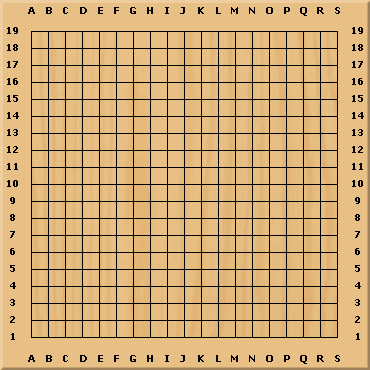
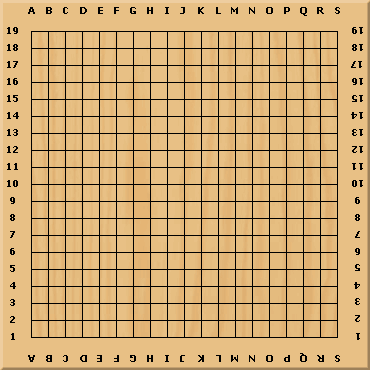
Not so smoth transaction

diff --git a/TP3/XMLscene.js b/TP3/XMLscene.js
@@ -13,6 +13,7 @@ class XMLscene extends CGFscene {
 
         this.interface = myinterface;
         this.lightValues = {};
+        this.Start = false;
 
     }
 
@@ -24,8 +25,6 @@ class XMLscene extends CGFscene {
         super.init(application);
 
         this.sceneInited = false;
-
-        this.View = 3;
 
         this.initCameras();
 
@@ -40,10 +39,12 @@ class XMLscene extends CGFscene {
 
         this.materialDefault = new CGFappearance(this);
 
-
-
         this.waterShader = new CGFshader(this.gl, "shaders/water.vert", "shaders/water.frag");
         this.waterShader.setUniformsValues({uSampler2: 1});
+
+
+        this.game = new Game(this);
+
 
         this.setPickEnabled(true);
         this.setUpdatePeriod(50);
@@ -54,7 +55,8 @@ class XMLscene extends CGFscene {
      * Initializes the scene cameras.
      */
     initCameras() {
-        this.camera = new CGFcamera(0.4, 0.1, 500, vec3.fromValues(15, 15, 15), vec3.fromValues(0, 0, 0));
+        this.camera = new CGFcamera(0.8, 0.1, 500, vec4.fromValues(2.6, 3, 2.5, 1), vec4.fromValues(2.4, 0, 2.5, 1));
+        this.interface.setActiveCamera(this.camera);
     }
     /**
      * Initializes the scene lights with the values read from the XML file.
@@ -117,19 +119,11 @@ class XMLscene extends CGFscene {
         // Adds lights group.
         this.interface.addLightsGroup(this.graph.lights);
 
-
+        this.interface.addGameGroup(this.game);
 
 
         this.materialDefault.apply();
 
-        for(var i = 0; i < this.graph.views.length; i++){
-            if(this.graph.views[i].id == this.graph.defaultCamID){
-                 this.camera = this.graph.views[i].cam;
-                this.interface.setActiveCamera(this.camera);
-            }
-        }
-        //Adds Views Group
-        this.interface.addViewsGroup(this.graph.views);
 
 
         this.sceneInited = true;
@@ -183,7 +177,7 @@ class XMLscene extends CGFscene {
                 }
             }
 
-           
+
             // Displays the scene (MySceneGraph function).
             this.graph.displayScene();
         }
@@ -207,15 +201,13 @@ class XMLscene extends CGFscene {
       }
     }
 
-	}
+    if (this.gui.isKeyPressed("KeyP")) {
+      console.log('P');
+      this.game.changeplayer();
 
-    updateViews(){
-        //Diferent from null so it waits for parsing
-        if (this.sceneInited){
-            this.camera = this.graph.views[this.View-1].cam;
-            this.interface.setActiveCamera(this.camera);
-        }
     }
+
+	 }
 
     updateComponent(currTime){
 
@@ -241,27 +233,33 @@ class XMLscene extends CGFscene {
 
 	update(currTime) {
 		this.checkKey();
-        this.updateViews();
-        this.updateComponent(currTime);
-        this.updateWaterShader(currTime);
+    this.updateComponent(currTime);
+    this.updateWaterShader(currTime);
+    if(!this.game.begin){
+      if(this.Start)
+        this.game.start();
     }
-    
-    logPicking(){
-        
-        if (this.pickMode == false) {
-            if (this.pickResults != null && this.pickResults.length > 0) {
-                for (var i=0; i< this.pickResults.length; i++) {
-                    console.log(this.pickResults[i][1]);
-                    var obj = this.pickResults[i][0];
-                    if (obj)
-                    {
-                        var customId = this.pickResults[i][1];				
-                        console.log("Picked object: " + obj + ", with pick id " + customId);
-                    }
-                }
-                this.pickResults.splice(0,this.pickResults.length);
-            }		
-        }
+    if(this.game.begin)
+      this.game.updateView(currTime);
+
+  }
+
+  logPicking(){
+
+      if (this.pickMode == false) {
+          if (this.pickResults != null && this.pickResults.length > 0) {
+              for (var i=0; i< this.pickResults.length; i++) {
+                  console.log(this.pickResults[i][1]);
+                  var obj = this.pickResults[i][0];
+                  if (obj)
+                  {
+                      var customId = this.pickResults[i][1];
+                      console.log("Picked object: " + obj + ", with pick id " + customId);
+                  }
+              }
+              this.pickResults.splice(0,this.pickResults.length);
+          }
+      }
     }
 
     ispiece(string){

diff --git a/TP3/Game.js b/TP3/Game.js
@@ -1,0 +1,86 @@
+/**
+ * Game
+ * @param gl {WebGLRenderingContext}
+ * @constructor
+ */
+
+class Game {
+
+
+	constructor(scene){
+
+		this.scene = scene;
+
+		this.tablepos = [2.5,0,2.5,1];
+
+		this.player = 1;
+
+		this.perspective1 = [3.2,4,2.5,1];
+		this.perspective2 = [1.8,4,2.5,1];
+
+		this.playercamera = new CGFcamera(0.4, 0.1, 500, this.perspective1, this.tablepos);
+
+		this.currentperspective = this.perspective1;
+		this.objectiveperspective = this.perspective1;
+
+		this.begin = false;
+
+		this.deltaTime = 0;
+
+	};
+
+	start(){
+		this.begin = true;
+		this.setView(this.perspective1);
+	}
+
+	changeplayer(){
+		if(this.player == 1)
+			this.player = 2;
+		else {
+			this.player = 1;
+		}
+		this.changeperspective();
+	}
+
+	changeperspective(){
+			if(this.objectiveperspective == this.perspective1)
+				this.objectiveperspective = this.perspective2;
+			else
+				this.objectiveperspective = this.perspective1;
+	}
+
+	setView(perspective){
+		this.playercamera = new CGFcamera(0.4, 0.1, 500, perspective, this.tablepos);
+		this.scene.camera = this.playercamera;
+		this.scene.interface.setActiveCamera(this.camera);
+	}
+
+	updateView(currTime){
+		let newTime = Math.round(currTime/100);
+
+		if(this.currentperspective == this.objectiveperspective)
+			return null;
+
+		if(this.deltaTime == 0){
+			this.deltaTime = newTime;
+			return null;
+	 	}
+
+		let movTime = newTime - this.deltaTime;
+		console.log(movTime);
+		if(movTime >= 100){
+			this.setView(this.objectiveperspective);
+			this.deltaTime = 0;
+			this.currentperspective = this.objectiveperspective;
+			return null;
+		}
+
+		let currAng = Math.PI*(movTime)/100;
+		let x = this.currentperspective[0] - this.tablepos[0], y = this.currentperspective[1], z = this.currentperspective[2] - this.tablepos[2];
+		let radious = this.tablepos[0] - this.currentperspective[0];
+		let newX = ((x * Math.cos(currAng)) - (z * Math.sin(currAng))) + this.tablepos[0], newZ = ((z * Math.cos(currAng)) - (x * Math.sin(currAng))) + this.tablepos[2];
+		this.setView([newX,y,newZ,1]);
+	};
+
+};

diff --git a/TP3/main.js b/TP3/main.js
@@ -11,7 +11,7 @@ function getUrlVars() {
     return vars;
 }
 //Include additional files here
-serialInclude(['../lib/CGF.js', 'XMLscene.js', 'MySceneGraph.js', 'MyInterface.js', 'MyRectangle.js' , 'MyCylinder.js' , 'MySphere.js' , 'Triangle.js' , 'Component.js' , 'Torus.js' , 'animations/Animation.js' , 'animations/LinearAnimation.js' , 'animations/CircularAnimation.js' , 'Plane.js', 'Patch.js', 'Terrain.js' , 'Water.js', 'Cylinder2.js', 'Vehicle.js', 'Cell.js',
+serialInclude(['../lib/CGF.js', 'XMLscene.js', 'MySceneGraph.js', 'MyInterface.js', 'MyRectangle.js' , 'MyCylinder.js' , 'MySphere.js' , 'Triangle.js' , 'Component.js' , 'Torus.js' , 'animations/Animation.js' , 'animations/LinearAnimation.js' , 'animations/CircularAnimation.js' , 'Plane.js', 'Patch.js', 'Terrain.js' , 'Water.js', 'Cylinder2.js', 'Vehicle.js', 'Cell.js', 'Game.js',
 
 main=function()
 {

diff --git a/TP3/MyInterface.js b/TP3/MyInterface.js
@@ -43,25 +43,20 @@ class MyInterface extends CGFinterface {
                 group.add(this.scene.lightValues, key);
             }
         }
+        group.close();
+    }
+
+    addGameGroup(){
+        var group = this.gui.addFolder("Game");
+        group.open();
+
+        group.add(this.scene, "Start", false);
+
+        group.close();
     }
 
 
-    /**
-     * Adds a folder containing the indexes of the views in a dropdown.
-     * @param {array} views
-     */
-    addViewsGroup(views) {
 
-      var group = this.gui.addFolder("Views");
-      group.open();
-
-      var temp = [];
-      for(var i=0; i < views.length; i++){
-        temp.push(i+1);
-      }
-
-      group.add(this.scene, "View", temp);
-    }
 
     /**
 	 * processKeyboard
